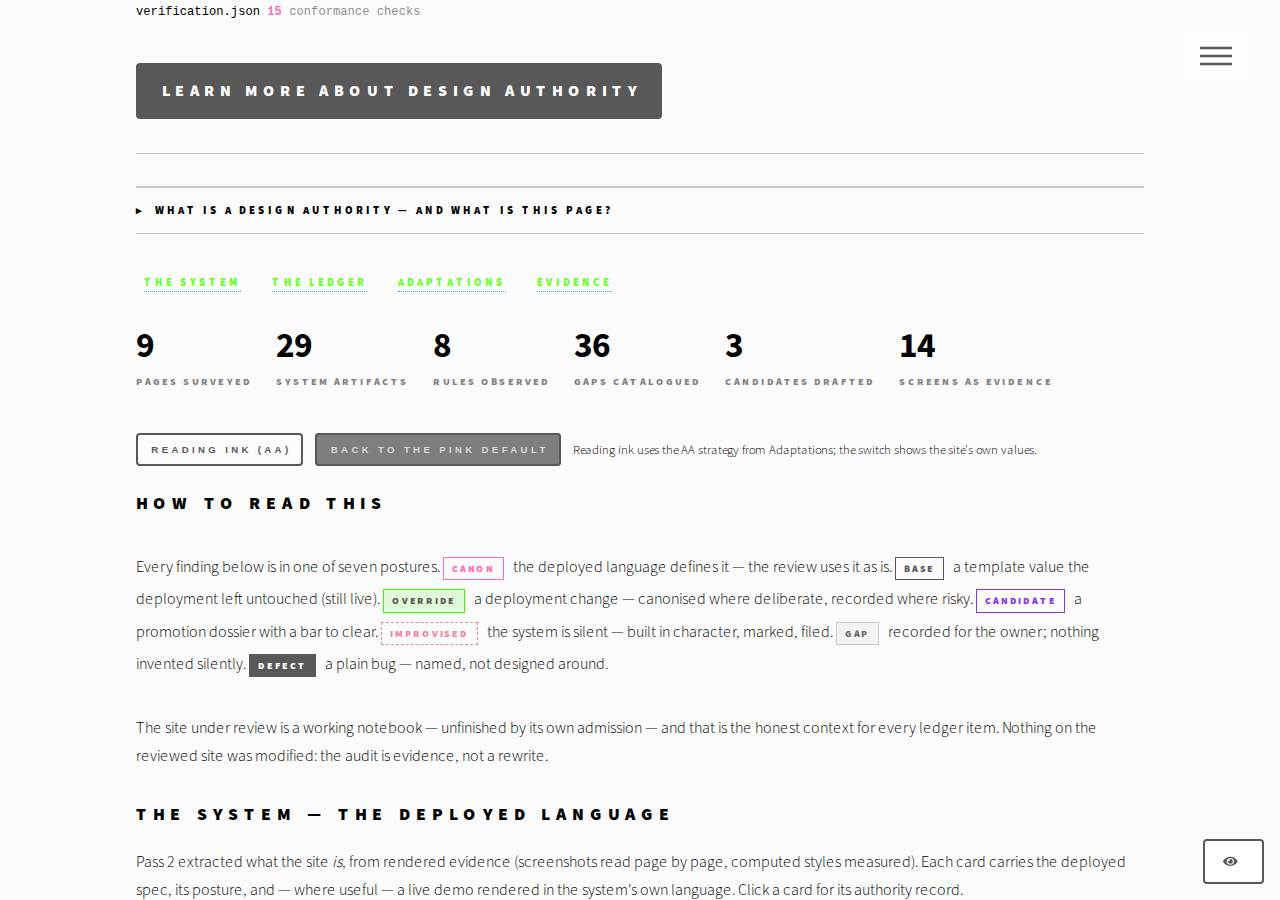
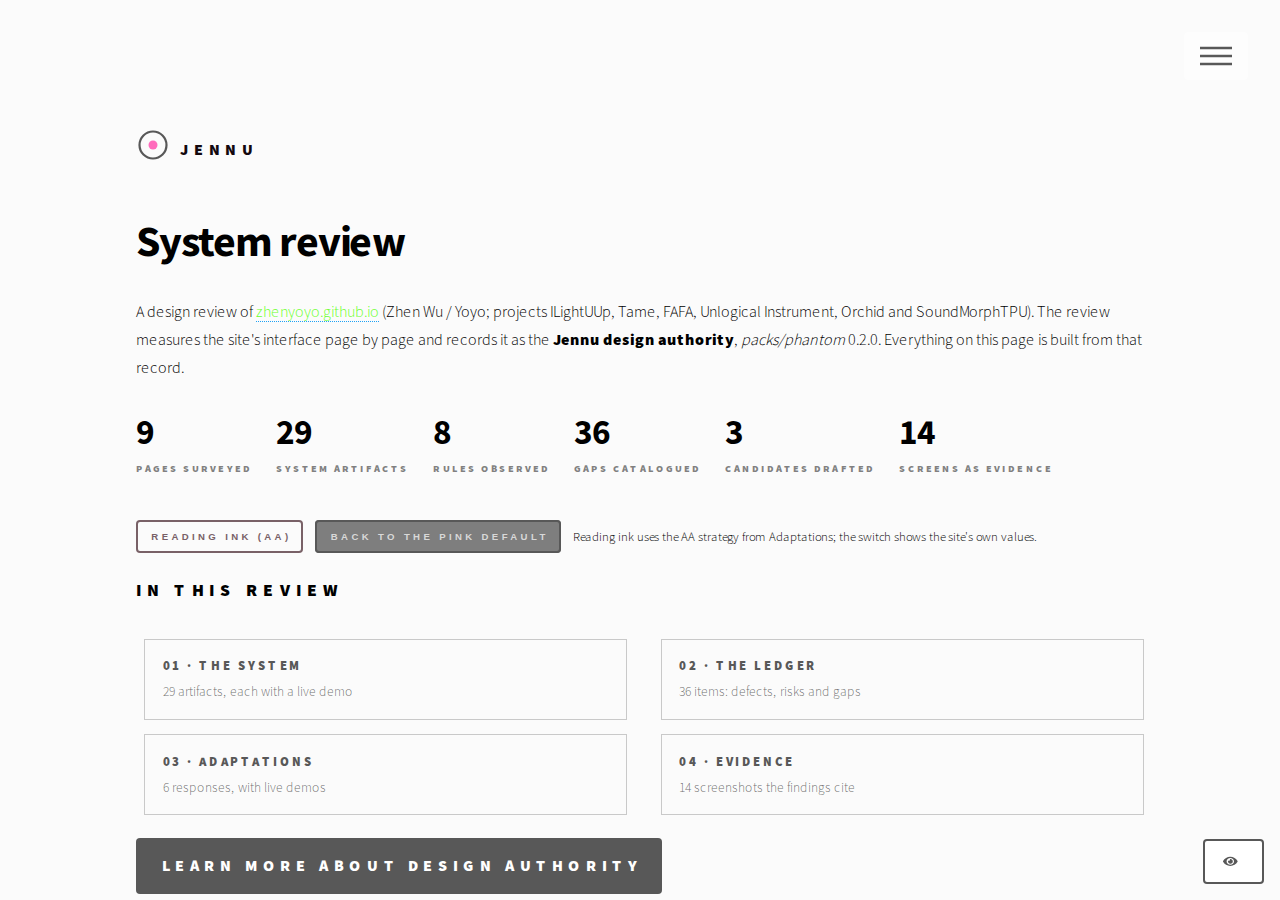
restructure the review overview: intro + numbers + contents + CTA (explainer lives on the learn page only; legend moved beside the cards; numbered sections 01-04)

diff --git a/examples/phantom-audit/index.html b/examples/phantom-audit/index.html
@@ -64,80 +64,6 @@
 								The review measures the site's interface page by page and records it as the <strong>Jennu design authority</strong>,
 								<em>packs/phantom</em> 0.2.0. Everything on this page is built from that record.</p>
 							</header>
-							<section class="aglance" data-improvised data-mk="explainer at a glance (console kit)">
-								<div class="ag-kicker">Design authority — at a glance</div>
-								<h2>How this review is put together</h2>
-								<div class="ag-cols">
-									<div class="ag-col">
-										<h3>01 · The contract</h3>
-										<p>A written description of an interface system that software can read: the components, the rules, and the fallbacks for anything not decided yet. <strong>It is a contract, not commentary.</strong></p>
-										<div class="filelist">
-<code>packs/phantom/</code> <span class="c">— plain JSON, no database</span><br/>
-artifacts.json <span class="cnt">29</span> <span class="c">components · token-sets · layouts</span><br/>
-rules.json <span class="cnt">8</span> <span class="c">· prohibitions <span class="cnt">2</span> · fallbacks <span class="cnt">4</span></span><br/>
-precedents.json <span class="cnt">1</span> <span class="c">· candidates.json <span class="cnt">3</span></span><br/>
-golden.json <span class="cnt">21</span> <span class="c">ask → expected outcome</span><br/>
-verification.json <span class="cnt">15</span> <span class="c">conformance checks</span>
-										</div>
-									</div>
-									<div class="ag-col">
-										<h3>02 · Two readers</h3>
-										<div class="fstep"><span class="arr">▸</span><div class="fbox"><b>The pack</b>one file set, readable by software</div></div>
-										<div class="fstep"><span class="arr">▸</span><div class="fbox l"><b>Coding agent</b>reads the pack and builds</div></div>
-										<div class="fstep"><span class="arr">▸</span><div class="fbox"><b>Artifact</b>the built page; gaps in the pack are marked and filed</div></div>
-										<div class="fstep"><span class="arr">▸</span><div class="fbox r"><b>Verifier</b>checks the page itself, not the agent's claims</div></div>
-										<div class="fstep"><span class="arr">▸</span><div class="fbox report"><b>Report</b>15 checks, 0 violations; published with hashes</div></div>
-									</div>
-									<div class="ag-col">
-										<h3>03 · How it changes</h3>
-										<ul class="evol">
-											<li><span class="chip chip--base">v0.1.0</span><span class="chip chip--fix">rejected</span><span class="chip chip--canon">v0.2.0</span> The first version described the template; the second described the site. The reversal is kept as a precedent.</li>
-											<li><span class="chip">rule</span> Small edits bump the patch number; real changes bump the version and re-freeze every file hash.</li>
-											<li><span class="chip">rule</span> Settled decisions are kept as precedents and are not reopened.</li>
-											<li><span class="chip">rule</span> New ideas become candidates with a written bar for promotion; gaps get filed.</li>
-										</ul>
-									</div>
-								</div>
-								<p class="ag-cta"><a href="learn" class="button large primary">Learn more about Design Authority</a></p>
-							</section>
-							<details class="explainer" data-improvised data-mk="explainer (console kit)">
-								<summary>What is a Design Authority — and what is this page?</summary>
-								<div class="expl-body">
-									<h3>What it is</h3>
-									<p>A design authority is a written description of an interface system that software can read. It lists the components (buttons, fields, menus), the rules (colour, type, spacing, voice), and the fallbacks for anything not decided yet. One program builds with it; another checks whether the build matches it. It is a contract, not a style guide.</p>
-									<h3>Why it exists</h3>
-									<p>Interfaces drift. Every page and edit makes slightly different choices, and after a while “follow the design” means nothing. A written authority makes the choices explicit and checkable: a reviewer can point at a record instead of an opinion, and gaps show up as gaps.</p>
-									<h3>How this page fits in</h3>
-									<p><strong>1 · Extraction.</strong> The deployed site was measured page by page: 64 screenshots and computed styles. Every value was recorded and tagged <em>base</em> (from the HTML5 UP template) or <em>override</em> (the site's own change).</p>
-									<p><strong>2 · Consumption.</strong> This review is built from that record. Covered elements follow it; where the record is silent, the build improvises in the same style, marks the spot (◌, bottom-right) and files a gap.</p>
-									<p><strong>3 · Verification.</strong> A separate checker (<em>da_verify</em>, 15 checks) inspects this rendered page, not the agent's account of it. Results are linked in the footer.</p>
-									<h3>Why it looks like this</h3>
-									<p>The review wears the language it reviews: pink type, green links, the lime menu. Where that language has problems, the ledger records them, with measurements, instead of hiding them.</p>
-									<h3>The worked example — one revision, live</h3>
-									<ul class="expl-timeline">
-										<li><span class="ver">v0.1.0</span> <span class="muted">initial freeze — hashed, git-tagged</span><p>Extracted from the template's stylesheet: grey ink canon, the site's pink type misfiled as "deviations". Verified mechanically (its contract re-run clean: 17/17) — but extracted from the wrong layer.</p></li>
-										<li class="bad"><span class="ver">rejected</span> <span class="muted">owner review of the rendered result</span><p>"The site that exists runs pink type — extract what IS." A version can be internally consistent and still describe the wrong thing; only rendered evidence settles it.</p></li>
-										<li class="v2"><span class="ver">v0.2.0</span> <span class="muted">fresh freeze — all pack files re-hashed</span><p>Re-extracted screenshot-first (4 domain teams, 64 captures): canon = the deployed language. The reversal became <code>precedent/pink-ink-canonised</code> — superseded, not deleted. Goldens re-run 21/21; the verification contract rewritten (15 checks), re-run 15/15.</p></li>
-									</ul>
-									<h3>The standing rules</h3>
-									<div class="expl-rules">
-										<div class="r"><b>Editorial edit → patch bump</b><span>Wording, typos, clarifications. No re-freeze needed.</span></div>
-										<div class="r"><b>Semantic change → minor bump + fresh freeze</b><span>New or changed records, pipeline order, thresholds, tool contracts, taxonomies.</span></div>
-										<div class="r grey"><b>Adjudications become precedents</b><span>Accepted / declined decisions persist so agents never relitigate them.</span></div>
-										<div class="r purple"><b>Ambitions become candidates</b><span>Every candidate carries an explicit promote-when bar — no silent canonisation.</span></div>
-										<div class="r blue"><b>Friction is recorded, not smoothed</b><span>Consumer gaps are filed per workspace; resolutions and proposals are first-class records.</span></div>
-										<div class="r"><b>The contract co-versions</b><span>Goldens guard resolution; the verification contract travels with the pack and re-runs against every build.</span></div>
-									</div>
-									<p>The evolution loop: <strong>extract</strong> (rendered evidence) → <strong>freeze</strong> (hashes) → <strong>consume</strong> (agents resolve &amp; build) → <strong>verify</strong> (independent checks) → <strong>adjudicate</strong> (precedent · gap · candidate) → next version. Nothing moves the pack except an adjudicated decision.</p>
-									<p class="ag-link muted"><a href="learn">Learn more about Design Authority ↗</a> · <a href="assets/explainer/design-authority.png" target="_blank" rel="noopener">poster (PNG)</a></p>
-								</div>
-							</details>
-							<ul class="snav" data-improvised data-mk="section nav (console kit)">
-								<li><a href="#system">The system</a></li>
-								<li><a href="#gaps">The ledger</a></li>
-								<li><a href="#adaptations">Adaptations</a></li>
-								<li><a href="#evidence">Evidence</a></li>
-							</ul>
 							<div class="statrow" data-improvised data-mk="console kit — stat row">
 								<div class="stat"><b id="statPages">9</b><span>pages surveyed</span></div>
 								<div class="stat"><b id="statArts">29</b><span>system artifacts</span></div>
@@ -151,15 +77,14 @@ verification.json <span class="cnt">15</span> <span class="c">conformance checks
 								<button type="button" class="button small" id="overrideToggle" aria-pressed="false">View as project page — the black-body override</button>
 								<span class="muted" style="font-size:0.8em;">Reading ink uses the AA strategy from Adaptations; the switch shows the site's own values.</span>
 							</div>
-							<h2>How to read this</h2>
-							<p data-improvised data-mk="console kit — legend">Every finding below is in one of seven postures.
-							<span class="chip chip--canon">canon</span> the deployed language defines it — the review uses it as is.
-							<span class="chip chip--base">base</span> a template value the deployment left untouched (still live).
-							<span class="chip chip--override">override</span> a deployment change — canonised where deliberate, recorded where risky.
-							<span class="chip chip--candidate">candidate</span> a promotion dossier with a bar to clear.
-							<span class="chip chip--improv">improvised</span> the system is silent — built in character, marked, filed.
-							<span class="chip chip--gap">gap</span> recorded for the owner; nothing invented silently.
-							<span class="chip chip--defect">defect</span> a plain bug — named, not designed around.</p>
+							<h2>In this review</h2>
+							<ul class="contents" data-improvised data-mk="console kit — contents">
+								<li><a href="#system"><b>01 · The system</b><span>29 artifacts, each with a live demo</span></a></li>
+								<li><a href="#gaps"><b>02 · The ledger</b><span>36 items: defects, risks and gaps</span></a></li>
+								<li><a href="#adaptations"><b>03 · Adaptations</b><span>6 responses, with live demos</span></a></li>
+								<li><a href="#evidence"><b>04 · Evidence</b><span>14 screenshots the findings cite</span></a></li>
+							</ul>
+							<p class="ag-cta"><a href="learn" class="button large primary">Learn more about Design Authority</a></p>
 							<p class="muted">The site under review is a working notebook — unfinished by its own admission —
 							and that is the honest context for every ledger item. Nothing on the reviewed site was modified:
 							the audit is evidence, not a rewrite.</p>
@@ -167,17 +92,25 @@ verification.json <span class="cnt">15</span> <span class="c">conformance checks
 
 						<section id="system">
 							<header>
-								<h2>The system — the deployed language</h2>
+								<h2>01 · The system</h2>
 								<p>Pass 2 extracted what the site <em>is</em>, from rendered evidence (screenshots read page by page,
 								computed styles measured). Each card carries the deployed spec, its posture, and — where useful — a
 								live demo rendered in the system's own language. Click a card for its authority record.</p>
+								<p class="muted" data-improvised data-mk="console kit — legend">Each card's posture:
+								<span class="chip chip--base">base</span> a template value still live ·
+								<span class="chip chip--override">override</span> a deployment change ·
+								<span class="chip chip--canon">canon</span> the deployed language defines it ·
+								<span class="chip chip--improv">improvised</span> built in character, marked, filed ·
+								<span class="chip chip--candidate">candidate</span> a promotion dossier ·
+								<span class="chip chip--gap">gap</span> recorded for the owner ·
+								<span class="chip chip--defect">defect</span> a plain bug.</p>
 							</header>
 							<ul class="cards" id="systemCards"></ul>
 						</section>
 
 						<section id="gaps">
 							<header>
-								<h2>The ledger — defects, risks &amp; gaps</h2>
+								<h2>02 · The ledger</h2>
 								<p id="gapIntro">— items across five families: <em>system</em> (measured risks inside the language),
 								<em>craft</em> (markup and wiring defects), <em>assets</em> (files the site references but no longer serves),
 								<em>content</em> (placeholder text and finishing passes), <em>patterns</em> (surfaces a portfolio needs that
@@ -199,7 +132,7 @@ verification.json <span class="cnt">15</span> <span class="c">conformance checks
 
 						<section id="adaptations">
 							<header>
-								<h2>Adaptations — how the system responds</h2>
+								<h2>03 · Adaptations</h2>
 								<p>Six worked responses to the highest-value ledger items: the pink-ink AA dossier, the override pattern
 								as an accessibility path, the carousel repair dossier, the project-gallery responsive fix, the CJK fallback,
 								and the craft repairs. These are demonstrations inside the review — none was pushed back into the authority.</p>
@@ -209,7 +142,7 @@ verification.json <span class="cnt">15</span> <span class="c">conformance checks
 
 						<section id="evidence">
 							<header>
-								<h2>Evidence — the screens this review rests on</h2>
+								<h2>04 · Evidence</h2>
 								<p>Extraction evidence captured page by page during the domain passes (1280 and 390 viewports; hover and
 								focus states triggered before capture). The full set — 64 screenshots across four domain teams — lives in the
 								synthesis archive; these are the fourteen the findings lean on hardest.</p>

diff --git a/examples/phantom-audit/assets/css/console.css b/examples/phantom-audit/assets/css/console.css
@@ -201,3 +201,11 @@ body.ink-reading a { color: #0b7285; }
 body.ink-reading code { color: #ffffff; }
 body.ink-reading .ag-kicker { color: #b03b72; }
 body.ink-reading .statrow .stat b { color: inherit; }
+
+/* contents ("in this review") — console kit */
+ul.contents { list-style: none; padding: 0; margin: 0.2em 0 1.4em 0; display: grid; grid-template-columns: 1fr 1fr; gap: 0.9em 1.6em; }
+ul.contents li a { display: block; border: solid 1px #c9c9c9; padding: 0.9em 1.1em; }
+ul.contents li a:hover { border-color: #f2849e; }
+ul.contents b { display: block; font-size: 0.8em; letter-spacing: 0.2em; text-transform: uppercase; color: #585858; }
+ul.contents span { font-size: 0.84em; color: rgba(88,88,88,0.85); }
+@media screen and (max-width: 736px) { ul.contents { grid-template-columns: 1fr; } }

diff --git a/docs/synthesis/phantom/tools/app_test.py b/docs/synthesis/phantom/tools/app_test.py
@@ -39,19 +39,6 @@ with sync_playwright() as p:
     check("AA rows rendered", pg.evaluate("document.querySelectorAll('.aa').length") >= 6)
     check("fonts loaded (300 body)", pg.evaluate("document.fonts.check('300 16px \"Source Sans Pro\"')"))
 
-    # explainer accordion
-    check("at-a-glance block is live elements", pg.evaluate("document.querySelectorAll('.aglance .fstep').length") == 5 and pg.evaluate("document.querySelectorAll('.aglance .filelist .cnt').length") >= 4)
-    check("learn-more button present + wired", pg.evaluate("(() => { const b = document.querySelector('.ag-cta .button'); return !!b && b.textContent.indexOf('Learn more about Design Authority') > -1 && b.getAttribute('href') === 'learn'; })()"))
-    check("explainer starts collapsed", pg.evaluate("!document.querySelector('details.explainer').open"))
-    pg.click("details.explainer > summary")
-    pg.wait_for_timeout(150)
-    exp_txt = pg.evaluate("document.querySelector('details.explainer').innerText")
-    check("explainer expands with content", pg.evaluate("document.querySelector('details.explainer').open") and "software can read" in exp_txt and "Extraction" in exp_txt)
-    check("worked example is live (timeline + rules)", pg.evaluate("document.querySelectorAll('.expl-timeline li').length") == 3 and pg.evaluate("document.querySelectorAll('.expl-rules .r').length") == 6)
-    pg.screenshot(path=os.path.join(T, "_evidence", "screens", "audit2-explainer.png"))
-    pg.click("details.explainer > summary")
-    pg.wait_for_timeout(80)
-    check("explainer collapses back", pg.evaluate("!document.querySelector('details.explainer').open"))
 
     # --- the deployed language, as rendered by the app itself ---
     check("body ink is the as-deployed pink (default)", pg.evaluate("getComputedStyle(document.querySelector('#overview p')).color") == "rgb(255, 107, 188)")
